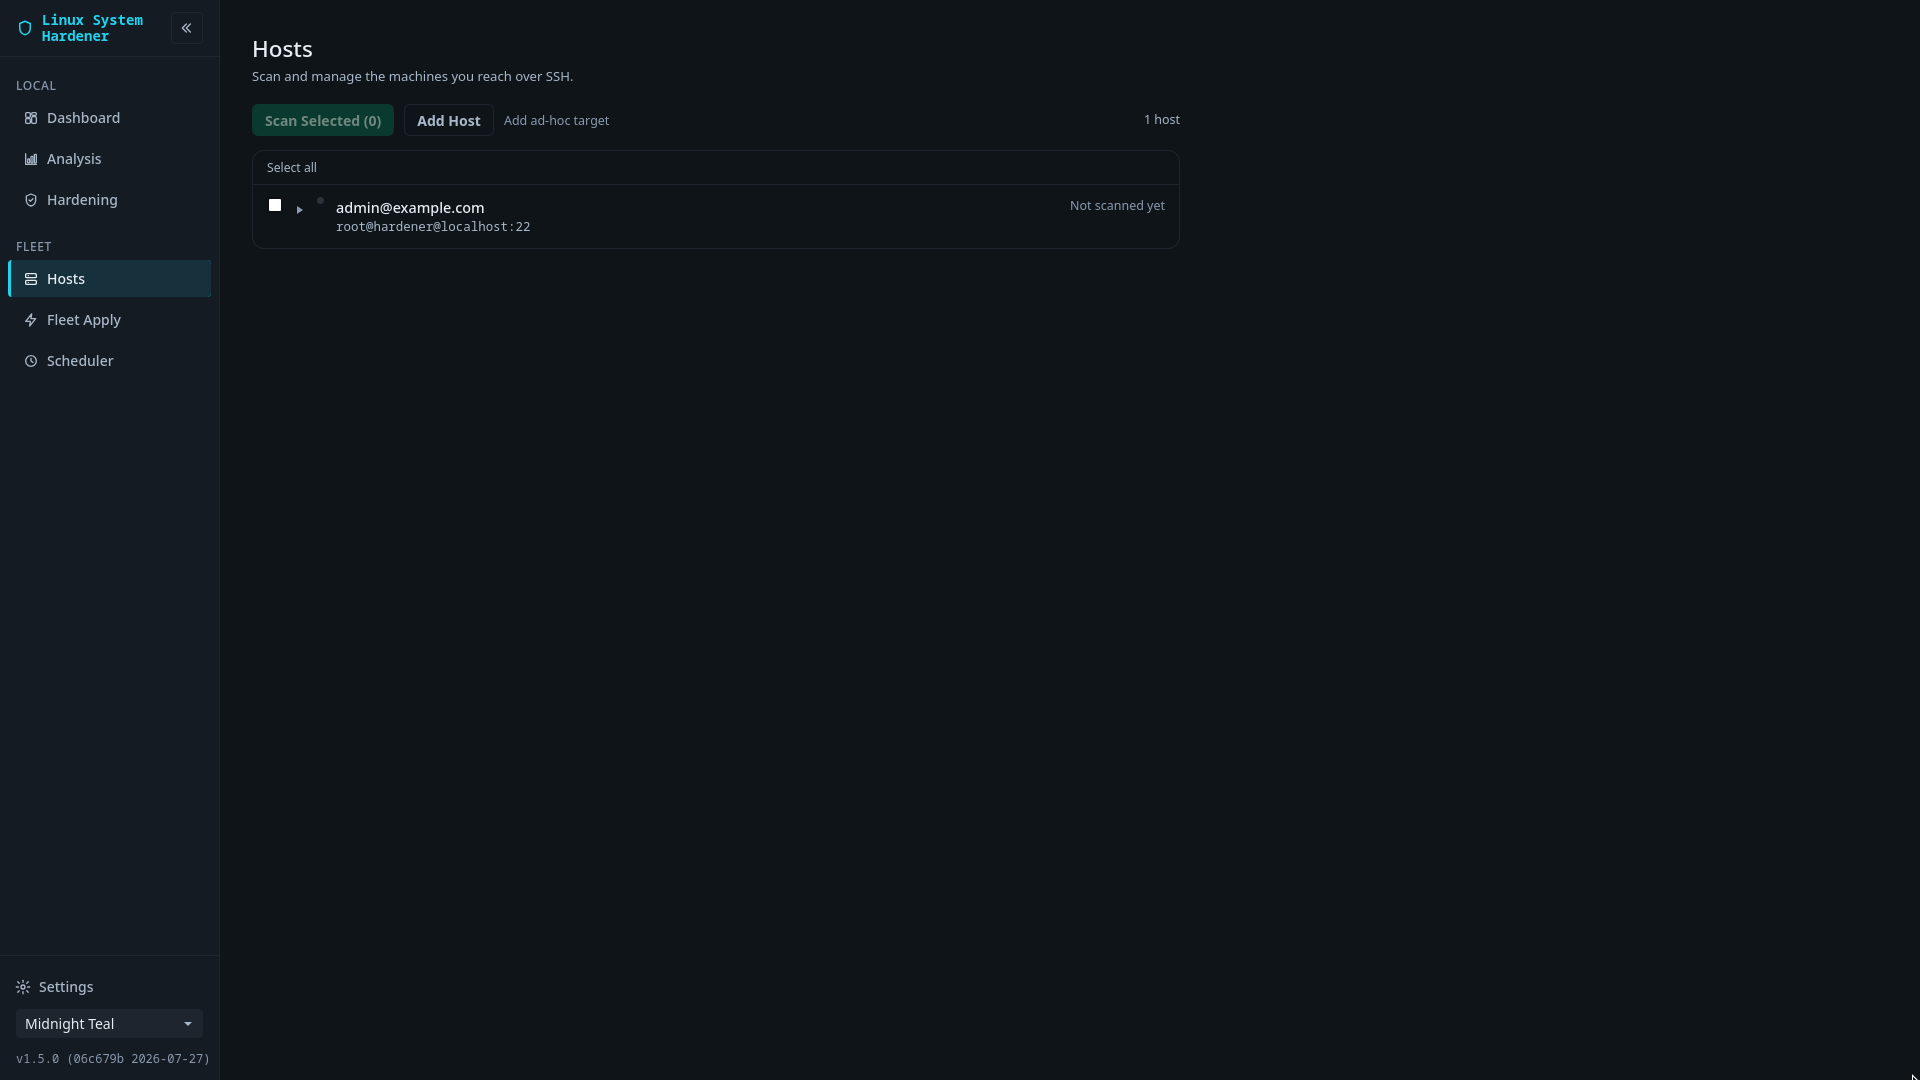
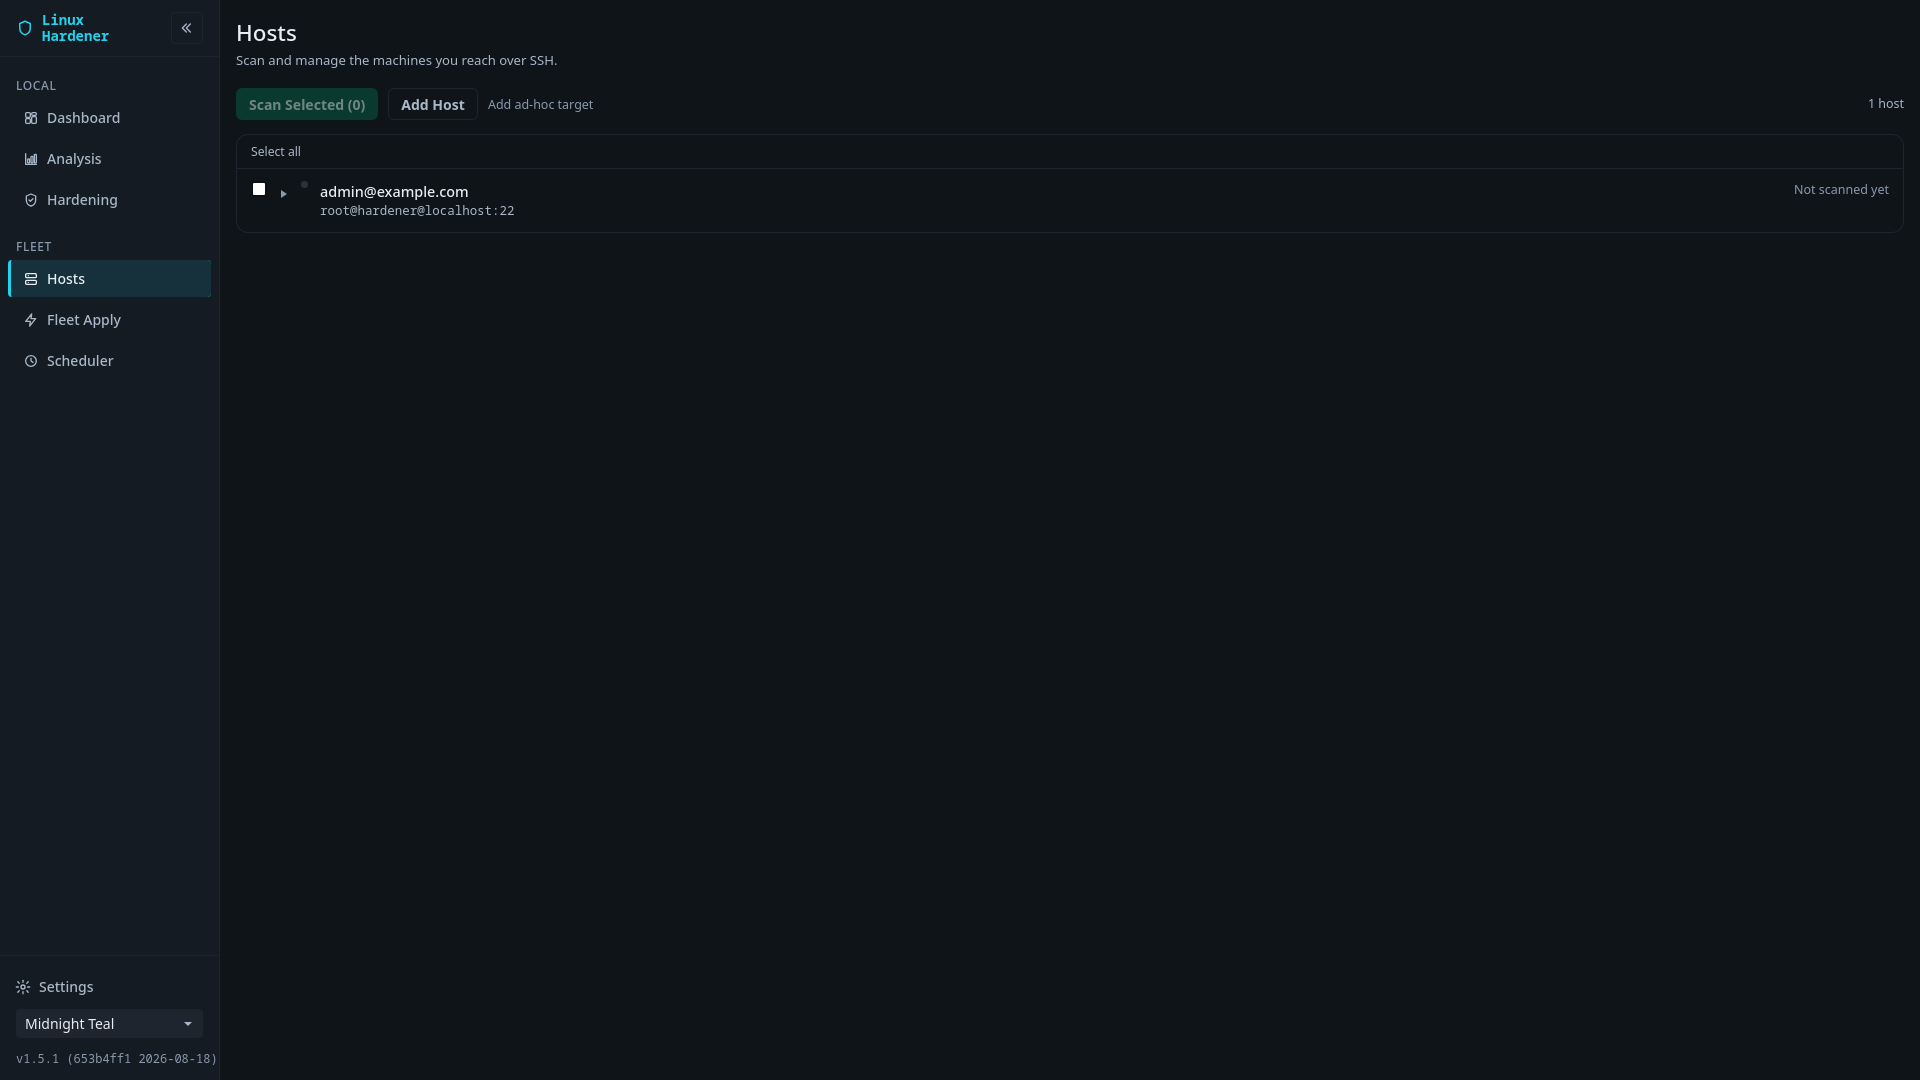
docs(screenshots): replace all seven and add sixteen hidden states
The published set dated from 3cb7d762 on 2026-07-27, with 54 commits to
crates/hardener-ui/src and 20 to styles.css since. Two were substantively
wrong rather than merely old: Fleet Apply and Scheduler listed plugins by
raw identifier, which is the naming inconsistency the 2026-08-16 eye-check
found and this release fixed, so the front page advertised a defect that is
gone. The Scheduler shot also predated 6a47498a's checkbox layout and both
paused-schedule notes.

All seven re-captured at 653b4ff1 by driving the desktop app in the headless
sandbox on Midnight Teal. The README keeps the same five subjects.

Sixteen new files record states no single view reaches: the finding detail
expander, per-control compliance, the scan-history timeline, the hardening
advanced override, the dry-run preview, the checkpoint timeline with its
detail and rollback confirmation, the expanded host panel with its history
rail, the armed delete, the add-host and ad-hoc forms, the Fleet Apply
rollback tab, and the Scheduler with its cron field, notification channels
and toggle in both positions.

The capture procedure changed. The app reads ~/.config/linux-hardener/
config.toml, so the Notifications section renders whatever addresses that
file holds; 3cb7d762 handled this by editing the running app and reached
Recipients while leaving a real address in From address. These were taken
against a scratch XDG_CONFIG_HOME, so that file is never read and every
[…]

diff --git a/docs/reference/what-is-not-proven.md b/docs/reference/what-is-not-proven.md
@@ -730,49 +730,49 @@ is not coverage, the evidence ledger still has no desktop row, and CI still
 excludes both crates. What it does establish is that the eye-check named here is
 a thing that has actually happened rather than an intention.
 
-**The screenshots on the README are the oldest evidence in this project,
-nothing checks their age, and they are stale.** They were last written on
-2026-07-27 (`3cb7d762`), and 54 commits to `crates/hardener-ui/src` and 20 to
-`styles.css` have landed since. **They are also not the Playwright captures**:
-that corpus photographs six subjects and none of them is Hosts, Fleet Apply,
-Scheduler or Settings, four of which the README embeds. So the 222 captures
-refreshed at `653b4ff1` said nothing about whether the front page shows the
-interface this release ships, and no validator could:
-`validate_markdown_links.py` asks that the file resolves, and an image that
-resolves is not an image that is current.
+**The screenshots were the oldest evidence in this project and nothing checks
+their age. They were replaced on 2026-08-18.** The previous set dated from
+2026-07-27 (`3cb7d762`), with 54 commits to `crates/hardener-ui/src` and 20 to
+`styles.css` in between, and two of them were substantively wrong rather than
+merely old: Fleet Apply and Scheduler both listed plugins by raw identifier,
+which is the naming inconsistency the 2026-08-16 eye-check found and this
+release fixed, so the front page advertised a defect that was gone.
 
-**Measured on 2026-08-18** by driving the desktop app at `653b4ff1` in the
-headless sandbox and capturing those four routes, on the same Midnight Teal
-theme the README caption names. Two of the four differ in ways a reader would
-act on:
+All seven subjects were re-captured at `653b4ff1` by driving the desktop app in
+the headless sandbox, and **sixteen further images record states no single view
+reaches**: the finding detail expander, the per-control compliance view, the
+scan-history timeline, the hardening advanced override, the dry-run preview,
+the checkpoint timeline and its detail and rollback confirmation, the expanded
+host panel, the armed delete, the add-host and ad-hoc forms, the Fleet Apply
+rollback tab, and the Scheduler with its custom-cron field, its notification
+channels, and the toggle both on and off.
 
-- **Fleet Apply lists plugins by raw identifier** in the shipped image
-  (`audit-hardening`, `firewall-hardening`, and six more). The application
-  lists display names (`Audit Rules`, `File Permissions`, `Firewall`, and so
-  on). That identifier list **is the naming inconsistency the 2026-08-16
-  eye-check found and the release then fixed**, so the front page advertises a
-  defect this release does not have.
-- **Scheduler shows the plugin checkboxes as one cramped row of short ids**
-  (`kernel ssh firewall pam services audit permissions mac`), which
-  `6a47498a` replaced with a laid-out grid of display names. The shipped image
-  also predates both paused-schedule notes, so it shows a disabled scheduler
-  saying nothing about being disabled, which is the state `a5ca6d03` and
-  `3fcc75a8` exist to correct.
+**Three things this does not establish, and one it does.**
 
-The other two differ only in the product name (`Linux System Hardener` against
-the `Linux Hardener` the application now uses, which is the unresolved naming
-question, not a defect in the shot), the version and build line, and the
-Daywatch swatches, which carry the pre-D5 palette.
+- **The rollback result stage is not photographed.** Its divergence rows render
+  only after a restore actually executes, which on the capture host means
+  overwriting `/etc/ssh/sshd_config` for a screenshot. The confirm stage is
+  captured; the stage the `T-DIVG-*` tests assert on is not.
+- **The dry-run preview reads "Nothing to apply"** on both the Secure and the
+  High profile, because the capture host is already hardened and PAM findings
+  are manual-only by design. That is an honest reading of that host and not a
+  demonstration of the feature.
+- **Nothing checks any of this next time.** `validate_markdown_links.py` asks
+  that the path resolves, and an image that resolves is not an image that is
+  current. The same drift starts accumulating from today.
+- What it does establish is the Scheduler notes from `a5ca6d03` and `3fcc75a8`,
+  seen present with scheduled scanning off and absent with it on, in the real
+  application against the real backend rather than through the Playwright mock.
 
-Two further readings came out of the same pass and are recorded because nothing
-else would find them. **The images are not internally consistent**:
-`settings.png` and `fleet.png` show build `06c679b` and `scheduler.png` shows
-`1fdd539`, so the set was captured across at least two commits and reads as one
-sitting. And **`3cb7d762`, whose whole purpose was to put a placeholder address
-in the Scheduler shot, reached one of the two fields**: Recipients reads
-`admin@example.com` and From address still reads a real personal address. That
-is the same shape as every other finding in this document, a fix that reached
-the site someone thought about and not the one they did not.
+**The capture procedure changed, and the reason is a defect in the old one.**
+The app reads `~/.config/linux-hardener/config.toml`, so the Scheduler's
+Notifications section renders whatever addresses that file holds. `3cb7d762`
+tried to handle this by editing the recipient in the running app, and reached
+Recipients while leaving a real personal address in From address, where it has
+sat in the published image ever since. The new captures were taken against a
+scratch `XDG_CONFIG_HOME`, so the file holding personal data is never read and
+every address on screen is the field's own placeholder. **Replacing the image
+does not remove the old one from git history**, which is a separate decision.
 
 ---
 

diff --git a/CHANGELOG.md b/CHANGELOG.md
@@ -1289,6 +1289,23 @@ and this project adheres to [Semantic Versioning](https://semver.org/spec/v2.0.0
 
 ### Changed
 
+- **Every screenshot replaced, and sixteen states added that no single view
+  reaches.** The published set dated from 2026-07-27 and two of the seven were
+  substantively wrong rather than old: Fleet Apply and Scheduler listed plugins
+  by raw identifier, the naming inconsistency the eye-check found and this
+  release fixed, so the front page advertised a defect that is gone. The
+  Scheduler shot also predated the checkbox layout and both paused-schedule
+  notes. All seven were re-captured at `653b4ff1`, joined by the finding detail
+  expander, the per-control compliance view, the scan-history timeline, the
+  advanced override, the dry-run preview, the checkpoint timeline with its
+  detail and rollback confirmation, the expanded host panel, the armed delete,
+  the add-host and ad-hoc forms, the Fleet Apply rollback tab, and the Scheduler
+  with its cron field, notification channels and toggle in both positions. The
+  capture procedure changed too: the app is now driven against a scratch
+  `XDG_CONFIG_HOME`, so the config holding personal data is never read and every
+  address on screen is a placeholder. `3cb7d762` had tried to do that by editing
+  the running app and reached one of the two email fields.
+
 - **The two owed Playwright assertions are written, and neither has been run.**
   `T-SCHED-07` covers the notes added in `a5ca6d03` and `3fcc75a8`, which appear
   only while scheduled scanning is off; both directions are asserted, because a

diff --git a/README.md b/README.md
@@ -211,7 +211,7 @@ The finding prints the command that copies the file into `/etc` for you. See the
   <img src="docs/assets/screenshots/analysis-findings.png" alt="Security Analysis: findings grouped by severity" width="49%">
 </p>
 
-<p align="center"><sub>Desktop application (Tauri and Leptos) on the Midnight Teal theme, from a live scan. The Hosts and Scheduler screens are in <a href="docs/assets/screenshots/">docs/assets/screenshots</a>.</sub></p>
+<p align="center"><sub>Desktop application (Tauri and Leptos) on the Midnight Teal theme, from a live unprivileged scan, captured at 1.5.1 (653b4ff1). The Hosts and Scheduler screens are in <a href="docs/assets/screenshots/">docs/assets/screenshots</a>, along with the states these five do not reach: the finding detail expander, the per-control compliance view, the checkpoint timeline and its rollback confirmation, the expanded host panel, and the two Scheduler notes that appear only while scheduled scanning is off.</sub></p>
 
 ---
 
